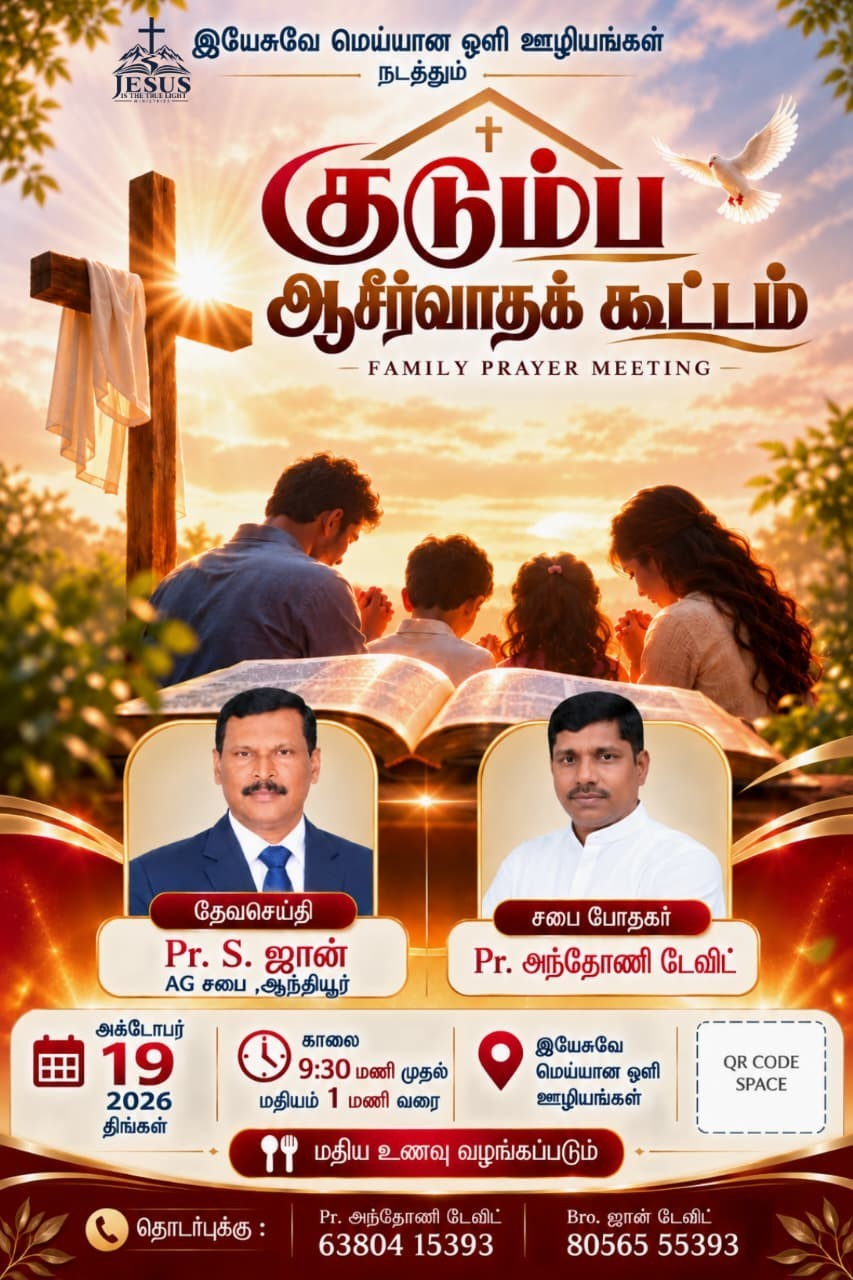
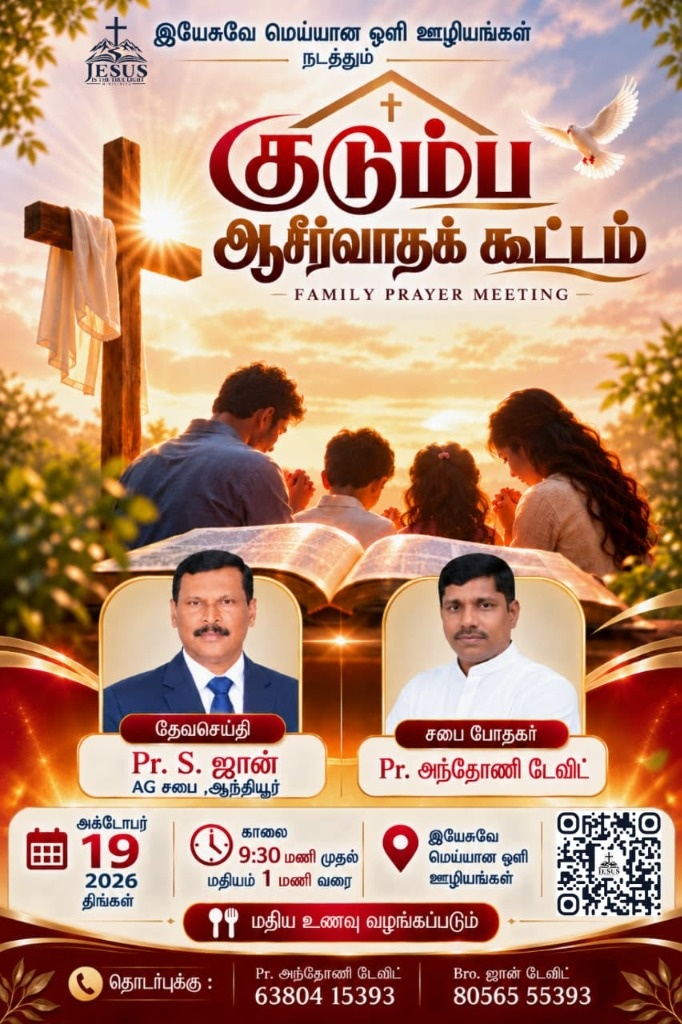
feat: update Family Prayer Meeting poster with official design

diff --git a/src/pages/EventsHome.tsx b/src/pages/EventsHome.tsx
@@ -78,11 +78,11 @@ export default function EventsHome() {
                   <img
                     src={assetUrl('images/poster-family-v1.webp')}
                     alt="குடும்ப ஆசீர்வாதக் கூட்டம் அதிகாரப்பூர்வ சுவரொட்டி — 19 அக்டோபர் 2026"
-                    width={853}
-                    height={1280}
+                    width={682}
+                    height={1024}
                     loading="eager"
                     className="block h-auto w-full object-contain transition-transform duration-500 group-hover:scale-[1.03]"
-                    style={{ aspectRatio: '853/1280' }}
+                    style={{ aspectRatio: '682/1024' }}
                   />
                   {/* Subtle hover overlay */}
                   <div className="absolute inset-0 bg-gradient-to-t from-midnight-950/80 via-transparent to-transparent opacity-0 transition-opacity duration-300 group-hover:opacity-100 flex items-end justify-center pb-6">

diff --git a/vite.config.ts b/vite.config.ts
@@ -26,8 +26,8 @@ function perRouteHtmlPlugin(): Plugin {
             'இயேசுவே மெய்யான ஒளி ஊழியங்கள் நடத்தும் குடும்ப ஆசீர்வாதக் கூட்டம் — அக்டோபர் 19, 2026 திங்கள், காலை 9:30 மணி முதல் மதியம் 1 மணி வரை. Family Prayer Meeting 2026 by Jesus the True Light Ministries.',
           canonical: `${siteUrl}/family-prayer`,
           ogImage: `${siteUrl}/images/poster-family-v1.jpg`,
-          ogImageWidth: '853',
-          ogImageHeight: '1280',
+          ogImageWidth: '682',
+          ogImageHeight: '1024',
           ogImageAlt: 'குடும்ப ஆசீர்வாதக் கூட்டம் அதிகாரப்பூர்வ சுவரொட்டி — அக்டோபர் 19, 2026',
           jsonLd: {
             '@context': 'https://schema.org',

diff --git a/src/config/events.ts b/src/config/events.ts
@@ -102,8 +102,8 @@ export const familyPrayerEvent: EventConfig = {
   poster: {
     src: assetUrl('images/poster-family-v1.webp'),
     smallSrc: undefined,
-    width: 853,
-    height: 1280,
+    width: 682,
+    height: 1024,
     altTa: 'குடும்ப ஆசீர்வாதக் கூட்டம் அதிகாரப்பூர்வ சுவரொட்டி — அக்டோபர் 19, 2026',
     altEn:
       'Official poster: Family Prayer Meeting, Monday 19 October 2026, 9:30 AM to 1:00 PM, Jesus the True Light Ministries',
